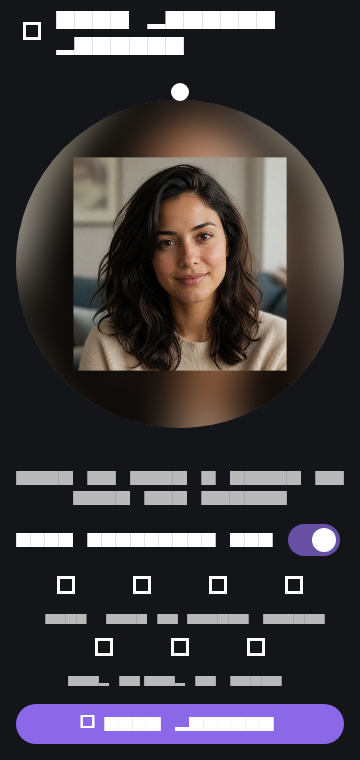
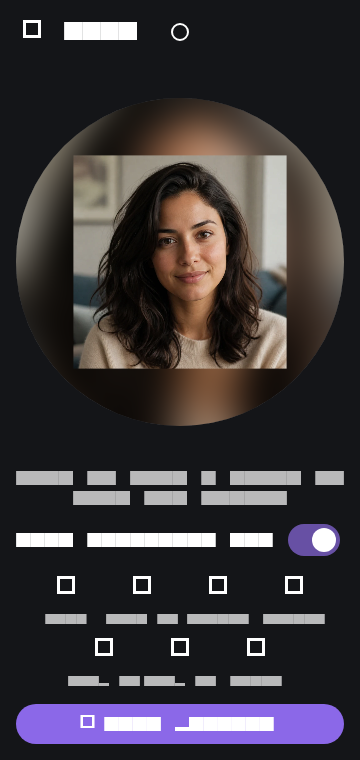
move profile shape switch button to the top

diff --git a/test/features/settings/account_settings_test.dart b/test/features/settings/account_settings_test.dart
@@ -350,6 +350,27 @@ void main() {
     await tester.pumpAndSettle();
     final shapeToggle = find.byKey(const Key('profile-preview-shape-toggle'));
     expect(tester.getTopLeft(shapeToggle).dy, greaterThanOrEqualTo(56));
+    expect(tester.getCenter(shapeToggle).dx, closeTo(180, 1));
+    final shapeDecoration =
+        tester
+                .widget<AnimatedContainer>(
+                  find.descendant(
+                    of: shapeToggle,
+                    matching: find.byType(AnimatedContainer),
+                  ),
+                )
+                .decoration!
+            as BoxDecoration;
+    expect(shapeDecoration.color, isNull);
+    expect(shapeDecoration.border!.top.color, Colors.white);
+    expect(
+      tester.getBottomLeft(shapeToggle).dy,
+      lessThan(
+        tester
+            .getTopLeft(find.byKey(const Key('profile-picture-gesture-area')))
+            .dy,
+      ),
+    );
     await tester.tap(shapeToggle);
     await tester.pumpAndSettle();
     expect(

diff --git a/lib/features/settings/presentation/profile_picture_editor.dart b/lib/features/settings/presentation/profile_picture_editor.dart
@@ -152,7 +152,7 @@ class _ProfilePictureEditorState extends State<ProfilePictureEditor> {
       child: Column(
         children: [
           Padding(
-            padding: const EdgeInsets.fromLTRB(8, 8, 16, 8),
+            padding: const EdgeInsets.symmetric(horizontal: 8, vertical: 8),
             child: LayoutBuilder(
               builder: (context, constraints) => SizedBox(
                 height: 48,
@@ -169,8 +169,8 @@ class _ProfilePictureEditorState extends State<ProfilePictureEditor> {
                         ),
                         const SizedBox(width: 8),
                         Text(
-                          constraints.maxWidth < 500
-                              ? 'Picture'
+                          constraints.maxWidth < 620
+                              ? 'Edit'
                               : 'Edit profile picture',
                           style: const TextStyle(
                             color: Colors.white,

diff --git a/docs/product/SETTINGS_APPEARANCE.md b/docs/product/SETTINGS_APPEARANCE.md
@@ -19,10 +19,11 @@ Controls repaint as values change; preference writes are grouped after a short
 pause in dragging. Edit picture sits beside Replace picture in the profile
 dialog, while the display name waits for a deliberate tap. The picture editor
 supports drag, pinch zoom, pinch rotation, quarter-turn rotation, flips, and
-reset. A small white shape button switches between the circular avatar and the
-full square upload, with an animated preview change. It sits within the system
-safe area so phone camera cutouts do not cover its touch target. A blur switch
-appears only when the framing exposes space or the source has transparency.
+reset. A small white outlined shape button in the top bar switches between the
+circular avatar and the full square upload, with an animated preview change.
+It sits within the system safe area so phone camera cutouts do not cover its
+touch target. A blur switch appears only when the framing exposes space or the
+source has transparency.
 PNGs and other transparent images leave that space transparent by default;
 turning blur on fills it with a softened copy of the source. Opaque non-PNG
 images keep Trace's blurred default when space is exposed.
